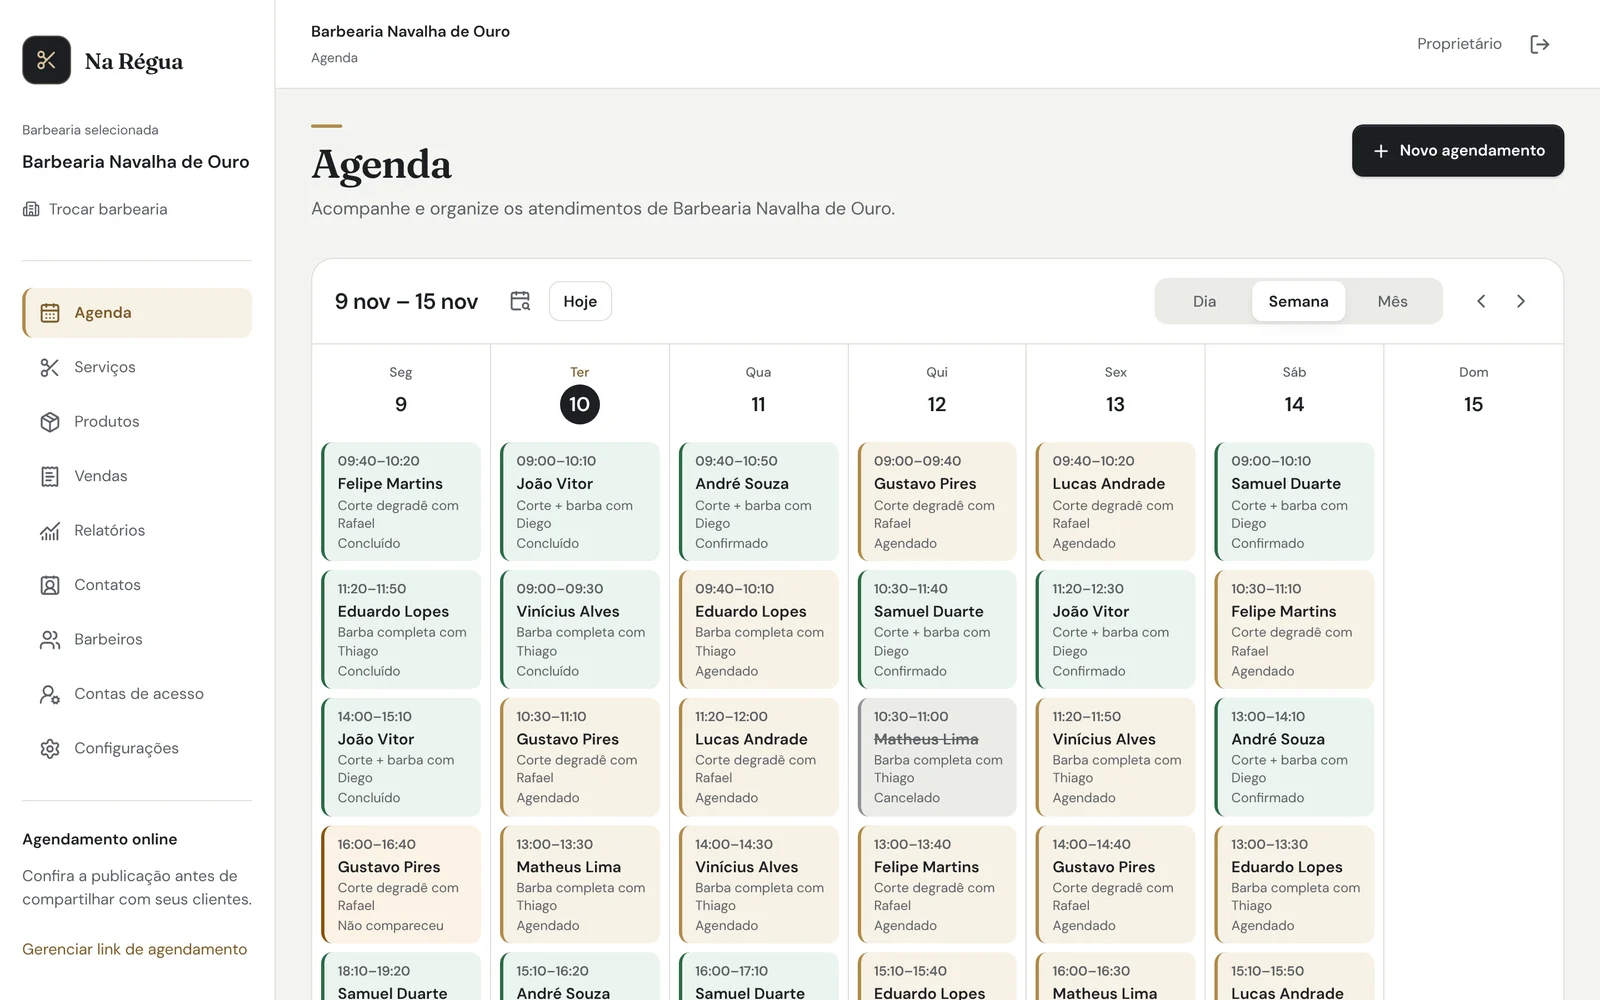
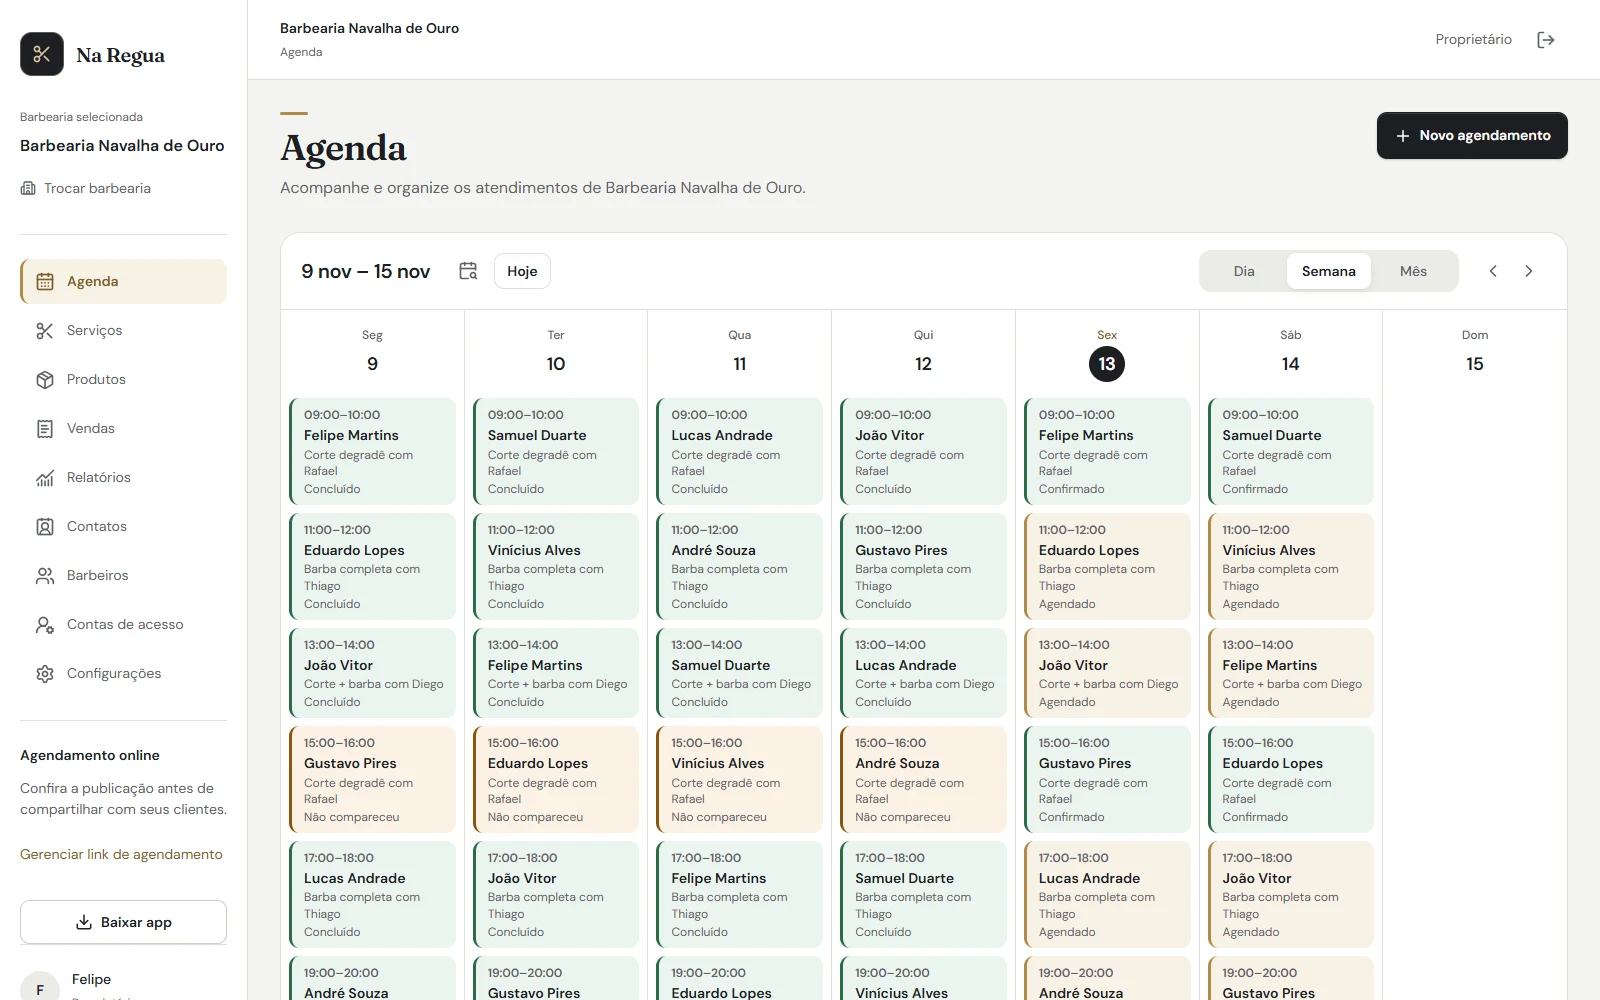
troca de nome

diff --git a/frontend-chat/tests/landing.spec.ts b/frontend-chat/tests/landing.spec.ts
@@ -8,8 +8,8 @@ test("home page is the public landing and sends barbers to sign up", async ({ pa
   const response = await page.goto("/");
   expect(response?.status()).toBe(200);
   await expect(page).toHaveURL("/");
-  await expect(page).toHaveTitle("Na Régua · Agenda online para barbearias");
-  await expect(page.getByRole("heading", { level: 1 })).toHaveText("Sua barbearia na régua.");
+  await expect(page).toHaveTitle("Na Regua · Agenda online para barbearias");
+  await expect(page.getByRole("heading", { level: 1 })).toHaveText("Sua barbearia na regua.");
   await expect(page.locator('meta[name="robots"]')).toHaveAttribute("content", "index, follow");
 
   const signups = page.getByRole("link", { name: /Criar conta/ });
@@ -47,7 +47,7 @@ test("WhatsApp link names a known channel and ignores unknown query text", async
   const link = page.getByRole("link", { name: "Chamar no WhatsApp" }).last();
   const href = (await link.getAttribute("href")) ?? "";
   expect(href.startsWith("https://wa.me/5511999999999?text=")).toBe(true);
-  expect(decodeURIComponent(href.split("text=")[1])).toContain("Vi o Na Régua no TikTok");
+  expect(decodeURIComponent(href.split("text=")[1])).toContain("Vi o Na Regua no TikTok");
   await expect(link).toHaveAttribute("rel", "noopener noreferrer");
 
   await page.goto("/?utm_source=%3Cscript%3E");
@@ -55,7 +55,7 @@ test("WhatsApp link names a known channel and ignores unknown query text", async
     (await page.getByRole("link", { name: "Chamar no WhatsApp" }).last().getAttribute("href")) ??
     "";
   expect(decodeURIComponent(plain.split("text=")[1])).toBe(
-    "Oi! Quero saber mais sobre o Na Régua para a minha barbearia.",
+    "Oi! Quero saber mais sobre o Na Regua para a minha barbearia.",
   );
 });
 

diff --git a/frontend-chat/tests/pwa.spec.ts b/frontend-chat/tests/pwa.spec.ts
@@ -7,7 +7,7 @@ test("manifest, Apple metadata and opaque PNG icons are available", async ({ req
   const manifest = await response.json();
   expect(manifest).toMatchObject({
     id: "/",
-    short_name: "Na Régua",
+    short_name: "Na Regua",
     start_url: "/admin",
     scope: "/",
     display: "standalone",
@@ -170,7 +170,7 @@ test("dismissed prompt is consumed and the next click provides manual instructio
   await button.click();
   await expect(page.getByRole("dialog")).not.toBeVisible();
   await button.click();
-  await expect(page.getByRole("dialog", { name: "Instalar Na Régua" })).toBeVisible();
+  await expect(page.getByRole("dialog", { name: "Instalar Na Regua" })).toBeVisible();
   await page.getByRole("button", { name: "Entendi" }).click();
   await expect(button).toBeFocused();
 });
@@ -202,7 +202,7 @@ test("landing page offers installation on a narrow viewport", async ({ page }) =
   const button = page.getByRole("button", { name: "Baixar app" });
   await button.scrollIntoViewIfNeeded();
   await button.click();
-  await expect(page.getByRole("dialog", { name: "Instalar Na Régua" })).toBeVisible();
+  await expect(page.getByRole("dialog", { name: "Instalar Na Regua" })).toBeVisible();
   expect(await page.evaluate(() => document.documentElement.scrollWidth <= window.innerWidth)).toBe(
     true,
   );

diff --git a/frontend-chat/src/components/landing/landing-page.tsx b/frontend-chat/src/components/landing/landing-page.tsx
@@ -84,7 +84,7 @@ export function LandingPage({ channel }: { channel: string }) {
             <div className={styles.heroText}>
               <p className={styles.eyebrowLight}>Agenda online para barbearias</p>
               <h1 className={styles.heroTitle}>
-                Sua barbearia <em>na régua.</em>
+                Sua barbearia <em>na regua.</em>
               </h1>
               <p className={styles.heroLead}>
                 O cliente agenda pelo link, recebe a confirmação e o lembrete no WhatsApp, e você vê
@@ -365,7 +365,7 @@ export function LandingPage({ channel }: { channel: string }) {
         <section className={styles.dark}>
           <div className={`${styles.wrap} ${styles.finalRow}`}>
             <h2 className={styles.sectionTitle}>
-              Bota a sua barbearia <em>na régua.</em>
+              Bota a sua barbearia <em>na regua.</em>
             </h2>
             <div className={styles.actions}>
               <Link href={SIGNUP} className={`${styles.btn} ${styles.btnBrass}`}>

diff --git a/frontend-chat/src/components/pwa/install-app-button.tsx b/frontend-chat/src/components/pwa/install-app-button.tsx
@@ -27,7 +27,7 @@ export function InstallAppButton({ className = "" }: { className?: string }) {
       <Modal
         open={instructions}
         onClose={() => setInstructions(false)}
-        title="Instalar Na Régua"
+        title="Instalar Na Regua"
         subtitle="Acesse pelo ícone na tela inicial, sem procurar o link novamente."
       >
         <div className={styles.instructions}>
@@ -46,7 +46,7 @@ export function InstallAppButton({ className = "" }: { className?: string }) {
             <>
               <p>
                 No Chrome ou Edge, abra o menu do navegador e procure <strong>Instalar app</strong>{" "}
-                ou <strong>Instalar Na Régua</strong>. No computador, a opção também pode aparecer
+                ou <strong>Instalar Na Regua</strong>. No computador, a opção também pode aparecer
                 na barra de endereço.
               </p>
               <p>

diff --git a/loadtest/barber-load.js b/loadtest/barber-load.js
@@ -1,4 +1,4 @@
-// Barber-chat load test (k6). Run through run-loadtest.ps1, or directly:
+// Na Regua load test (k6). Run through run-loadtest.ps1, or directly:
 //   k6 run -e API=http://127.0.0.1:8080 -e SLUG=minha-barbearia loadtest/barber-load.js
 //
 // Scenarios (each one turns on only when its inputs exist):
@@ -230,7 +230,7 @@ export function handleSummary(summary) {
   const p95 = (name) => Math.round(value(name, "p(95)"));
   const lines = [
     "",
-    "Barber-chat load test summary",
+    "Na Regua load test summary",
     "==============================",
     `Requests: ${value("http_reqs")} (${value("http_reqs", "rate").toFixed(1)}/s)`,
     `p95 overall: ${p95("http_req_duration")} ms | availability p95: ${p95("availability_ms")} ms | booking p95: ${p95("booking_ms")} ms`,

diff --git a/frontend-chat/src/app/layout.tsx b/frontend-chat/src/app/layout.tsx
@@ -9,12 +9,12 @@ import { PwaProvider } from "@/components/pwa/pwa-provider";
 
 export const metadata: Metadata = {
   title: {
-    default: "Na Régua · Agenda e gestão de barbearias",
-    template: "%s · Na Régua",
+    default: "Na Regua · Agenda e gestão de barbearias",
+    template: "%s · Na Regua",
   },
   description: "Agendamento online e gestão da rotina da sua barbearia.",
-  applicationName: "Na Régua",
-  appleWebApp: { capable: true, title: "Na Régua", statusBarStyle: "default" },
+  applicationName: "Na Regua",
+  appleWebApp: { capable: true, title: "Na Regua", statusBarStyle: "default" },
   icons: { apple: [{ url: "/icons/apple-touch-icon.png", sizes: "180x180", type: "image/png" }] },
   robots: { index: false, follow: false },
 };

diff --git a/frontend-chat/src/components/onboarding/onboarding-shell.tsx b/frontend-chat/src/components/onboarding/onboarding-shell.tsx
@@ -7,7 +7,7 @@ export function OnboardingShell({ step, children }: { step: 1 | 2 | 3; children:
   return (
     <div className={styles.page}>
       <header className={styles.header}>
-        <Link href="/login" aria-label="Na Régua — início">
+        <Link href="/login" aria-label="Na Regua — início">
           <Brand />
         </Link>
         <Link href="/login">Já tenho conta</Link>
@@ -33,7 +33,7 @@ export function OnboardingShell({ step, children }: { step: 1 | 2 | 3; children:
           começar a receber agendamentos.
         </p>
       </main>
-      <footer className={styles.footer}>Na Régua · Sua rotina, mais simples</footer>
+      <footer className={styles.footer}>Na Regua · Sua rotina, mais simples</footer>
     </div>
   );
 }

diff --git a/frontend-chat/tests/design-foundation.spec.ts b/frontend-chat/tests/design-foundation.spec.ts
@@ -9,8 +9,8 @@ test("product identity and login controls stay usable at mobile, tablet and desk
   for (const width of [320, 390, 768, 1440]) {
     await page.setViewportSize({ width, height: 960 });
     await page.goto("/login");
-    await expect(page).toHaveTitle("Acesso administrativo · Na Régua");
-    await expect(page.getByRole("link", { name: "Na Régua — acesso" })).toBeVisible();
+    await expect(page).toHaveTitle("Acesso administrativo · Na Regua");
+    await expect(page.getByRole("link", { name: "Na Regua — acesso" })).toBeVisible();
     await expect(page.getByLabel("E-mail", { exact: true })).toBeVisible();
     const password = page.getByLabel("Senha", { exact: true });
     await password.fill("example-password-only-for-ui-test");

diff --git a/frontend-chat/public/offline.html b/frontend-chat/public/offline.html
@@ -5,12 +5,12 @@
     <meta name="viewport" content="width=device-width, initial-scale=1" />
     <meta name="theme-color" content="#f4f4f2" />
     <meta name="robots" content="noindex" />
-    <title>Sem conexão · Na Régua</title>
+    <title>Sem conexão · Na Regua</title>
     <link rel="stylesheet" href="/offline.css" />
   </head>
   <body>
     <main>
-      <img src="/icons/icon-192.png" width="72" height="72" alt="Na Régua" />
+      <img src="/icons/icon-192.png" width="72" height="72" alt="Na Regua" />
       <h1>Você está sem conexão</h1>
       <p>Conecte-se à internet para acessar a agenda e os dados da sua barbearia.</p>
       <p>Agendamentos e alterações precisam de conexão para serem confirmados.</p>

diff --git a/frontend-chat/src/components/login-page.tsx b/frontend-chat/src/components/login-page.tsx
@@ -37,7 +37,7 @@ export function LoginPage() {
   return (
     <div className={styles.page}>
       <header className={styles.header}>
-        <Link href="/login" aria-label="Na Régua — acesso">
+        <Link href="/login" aria-label="Na Regua — acesso">
           <Brand />
         </Link>
         <Link href="/chat" className={styles.publicLink}>
@@ -191,7 +191,7 @@ export function LoginPage() {
       </main>
       <footer className={styles.footer}>
         <InstallAppButton />
-        <p>Na Régua · Agendamento e gestão de barbearias</p>
+        <p>Na Regua · Agendamento e gestão de barbearias</p>
       </footer>
       {help && (
         <Modal

diff --git a/frontend-chat/tests/admin-layout.spec.ts b/frontend-chat/tests/admin-layout.spec.ts
@@ -92,7 +92,7 @@ test("mobile navigation contains keyboard focus, closes with Escape and restores
   const install = drawer.getByRole("button", { name: "Baixar app" });
   await expect(install).toBeFocused();
   await install.click();
-  const instructions = page.getByRole("dialog", { name: "Instalar Na Régua" });
+  const instructions = page.getByRole("dialog", { name: "Instalar Na Regua" });
   await expect(instructions).toBeVisible();
   await instructions.getByRole("button", { name: "Entendi" }).focus();
   await page.keyboard.press("Tab");

diff --git a/frontend-chat/tests/final-qa.spec.ts b/frontend-chat/tests/final-qa.spec.ts
@@ -231,5 +231,5 @@ test("the browser icon belongs to the product, not the original shop", async ({ 
   const response = await page.request.get(hrefs.find((href) => href?.includes("icon.svg"))!);
   expect(response.ok()).toBe(true);
   expect(response.headers()["content-type"]).toContain("image/svg+xml");
-  expect(await response.text()).toContain("Na Régua");
+  expect(await response.text()).toContain("Na Regua");
 });
